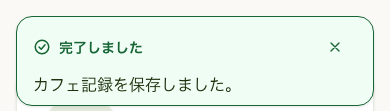
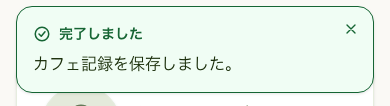
Balance toast content and close button spacing

diff --git a/packages/ui/src/components/notices.module.css b/packages/ui/src/components/notices.module.css
@@ -16,13 +16,14 @@
     padding-bottom: var(--cl-space-page-inline);
   }
   .toast {
+    position: relative;
     pointer-events: auto;
     width: 100%;
     flex-shrink: 0;
     border: var(--cl-border-width) solid currentColor;
     border-radius: var(--cl-radius-card);
     background: var(--cl-color-surface);
-    padding: var(--cl-space-field-gap) var(--cl-space-page-inline);
+    padding: var(--cl-space-page-inline);
     box-shadow: var(--cl-shadow-card);
   }
   .toast[data-ending-style] {
@@ -48,12 +49,15 @@
   .content {
     display: flex;
     flex-direction: column;
-    gap: var(--cl-space-tight);
+    gap: var(--cl-space-field-gap);
   }
   .header {
     display: flex;
     align-items: center;
     gap: var(--cl-space-field-gap);
+    padding-inline-end: calc(
+      var(--cl-size-target-min) + var(--cl-space-field-gap) - var(--cl-space-page-inline)
+    );
   }
   .icon {
     width: var(--cl-font-size-heading);
@@ -73,14 +77,19 @@
     font-size: var(--cl-font-size-body);
   }
   .close {
+    position: absolute;
+    inset-block-start: 0;
+    inset-inline-end: 0;
     display: flex;
     width: var(--cl-size-target-min);
     height: var(--cl-size-target-min);
-    flex-shrink: 0;
     align-items: center;
     justify-content: center;
     border-radius: var(--cl-radius-action);
     cursor: pointer;
+  }
+  .close:focus-visible {
+    outline-offset: calc(-1 * var(--cl-focus-width));
   }
   .close:hover {
     background: var(--cl-color-surface-tonal);

diff --git a/docs/design-system/changelog.md b/docs/design-system/changelog.md
@@ -4,7 +4,7 @@
 
 - ホームの最近の記録は、背景色のないリンクと薄い区切り線で一覧にする。日付は両アプリで `Sat. 2026.10.31` の形式に揃える。
 - Brewlogの抽出履歴は国旗の下の丸で温度を示す。読み上げ用のホット・アイスの名前を付け、評価は行の上下中央に配置する。
-- 設定のプロフィールと「アプリについて」は共通部品を使う。通知は上下の余白を詰め、閉じるボタンの操作領域を保つ。
+- 設定のプロフィールと「アプリについて」は共通部品を使う。通知は内容の上下の余白を揃え、閉じるボタンは操作領域を保ちながら右上に配置する。
 
 ## 2026年11月11日：Brewlogの加水欄をチェックボックスに変更（#168）
 
